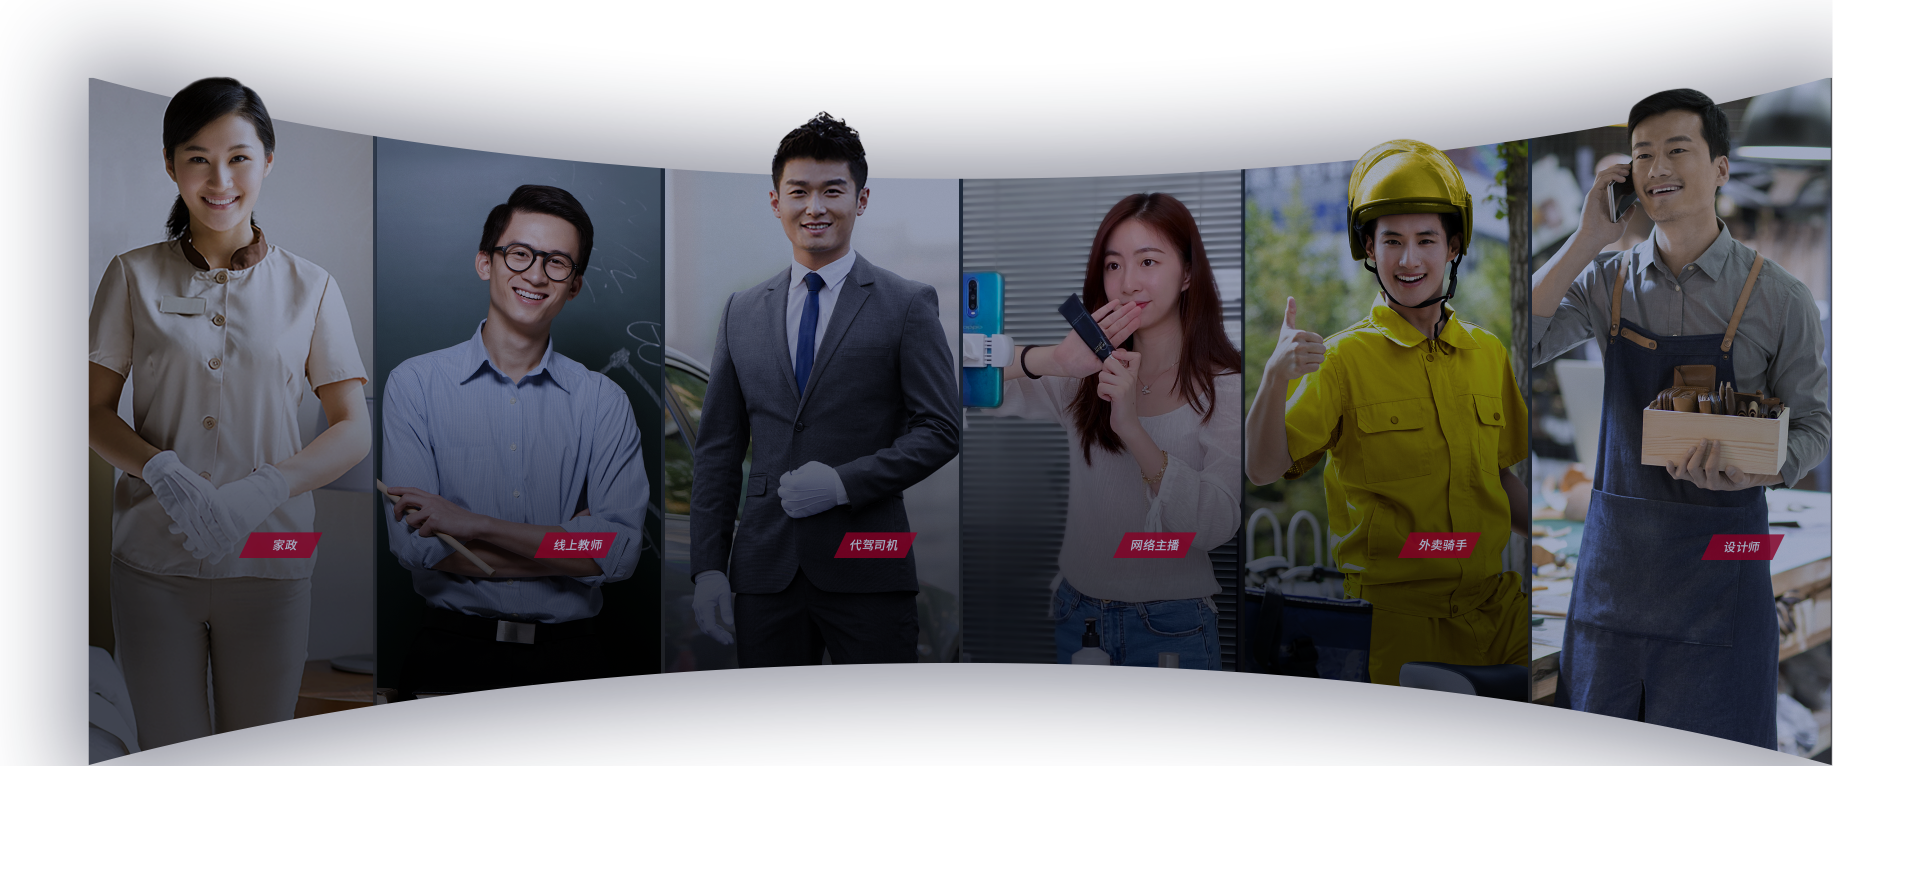
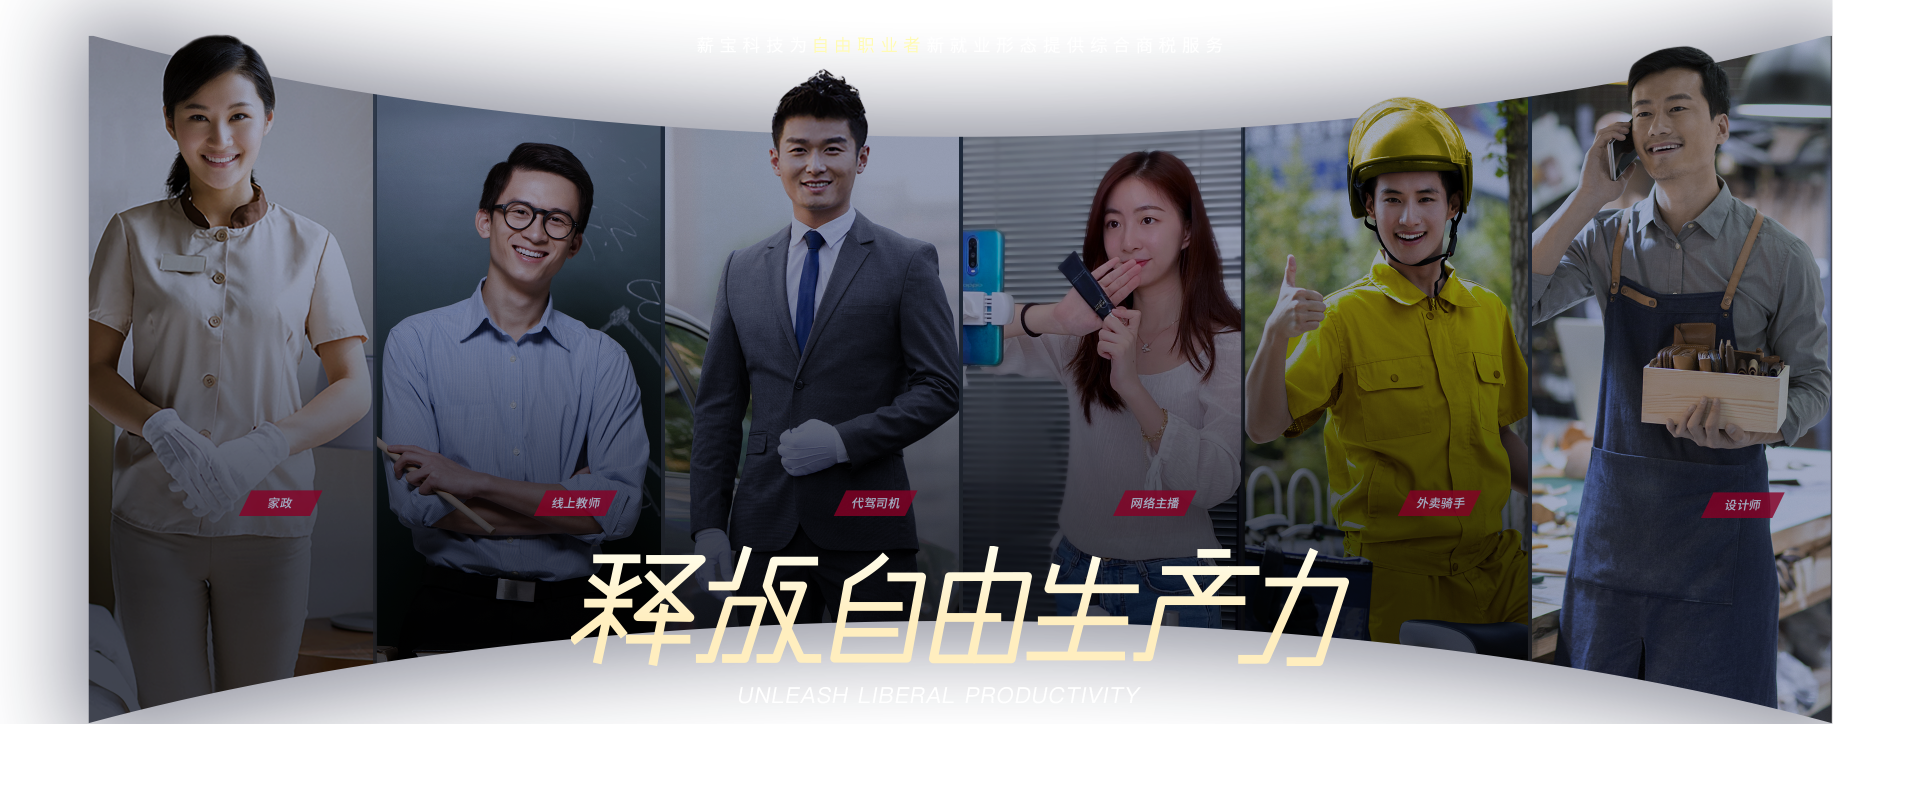
temp 图片替换等问题修改

diff --git a/client-side/src/app/modules/pc/pages/home/home-carousel/home-carousel.component.html b/client-side/src/app/modules/pc/pages/home/home-carousel/home-carousel.component.html
@@ -1,9 +1,6 @@
 <div class="home-carousel">
   <nz-carousel #nzCarouselComponent nzEffect="scrollx">
     <div nz-carousel-content class="carousel-item item-one">
-      <pc-core-container>
-        <img [src]="getImage('pc-banner-1-slogan')" class="slogan" alt="">
-      </pc-core-container>
     </div>
     <div nz-carousel-content class="carousel-item item-two">
       <pc-core-container>

diff --git a/client-side/src/app/modules/pc/shared/news-preview/news-preview.component.scss b/client-side/src/app/modules/pc/shared/news-preview/news-preview.component.scss
@@ -33,7 +33,7 @@ $news-preview-height: 170px;
     .news-date {
       font-size: 12px;
       color: #A1A1A1;
-      margin: 12px 0  20px;
+      margin: 20px 0;
     }
     .router-link {
       display: block;
